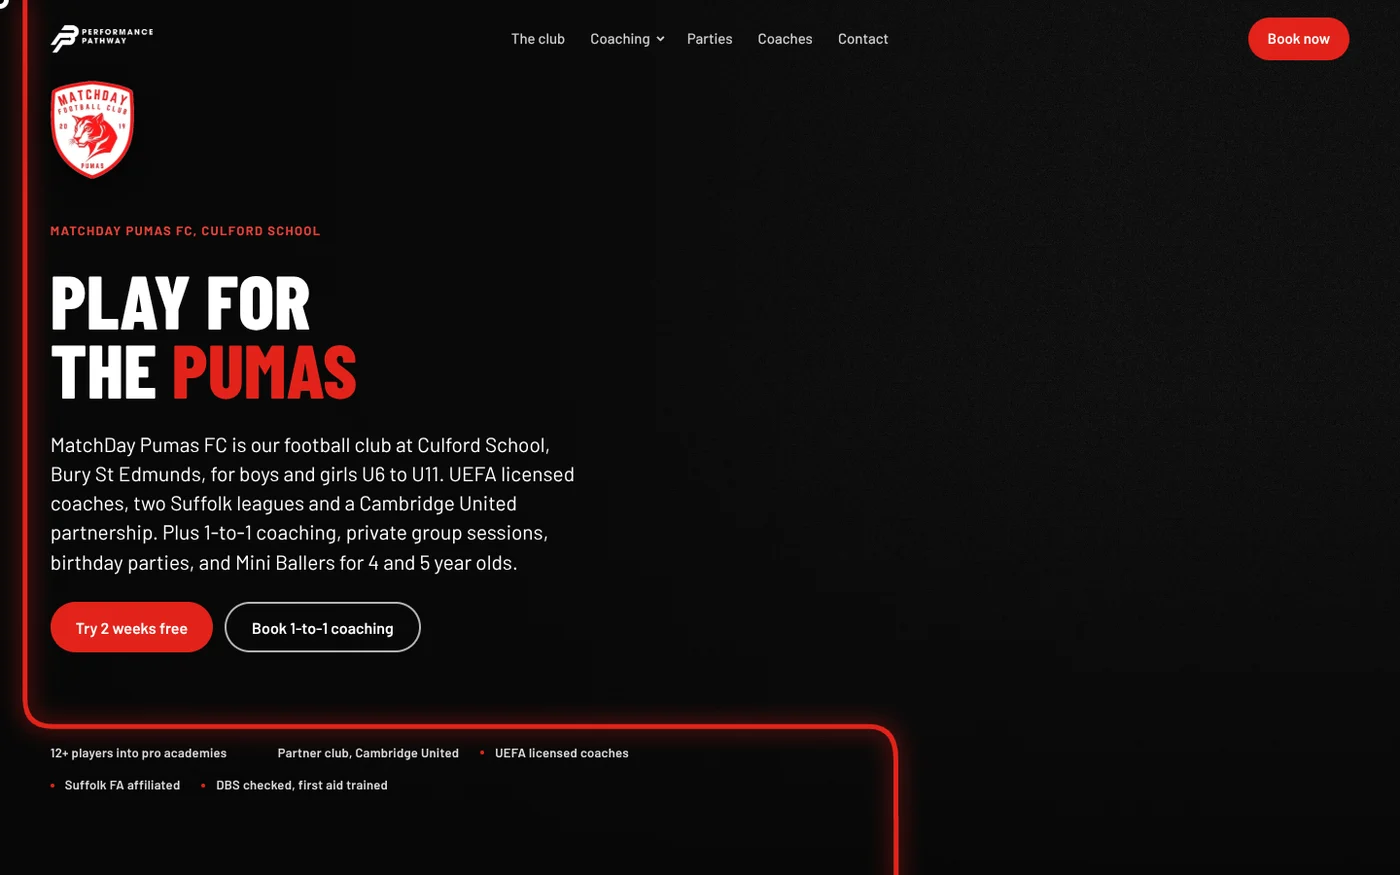
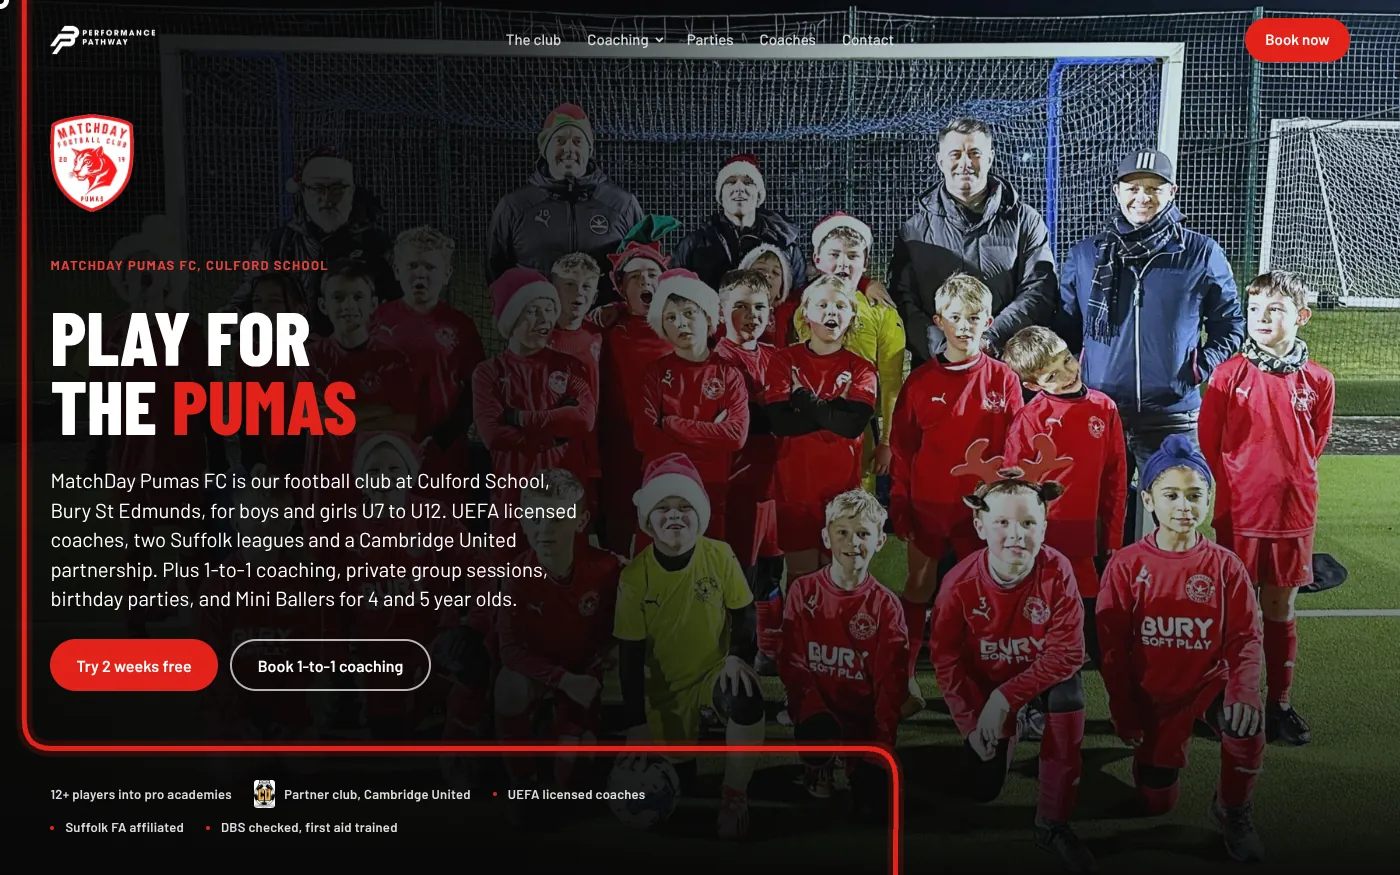
Premium pass: no bargain framing, work leads with the Pumas club photo, fan project removed, full 2009 before-site, header aligned to page margins

diff --git a/public/index.html b/public/index.html
@@ -176,6 +176,17 @@
                 </div>
                 <div class="b-img">image coming soon</div>
               </div>
+              <p class="b-h">Latest News</p>
+              <p><b>14/02/2016</b> &nbsp;Valentines cakes now available to order, please telephone.</p>
+              <p><b>02/12/2015</b> &nbsp;Christmas opening times will be posted here soon.</p>
+              <p><b>19/06/2014</b> &nbsp;We have a new oven!!! Thank you for your patience during the works.</p>
+              <p class="b-h">Opening Times</p>
+              <table class="b-table"><tr><td>Mon - Fri</td><td>7.00am - 5.00pm</td></tr><tr><td>Saturday</td><td>7.30am - 1.00pm (closed bank holidays)</td></tr><tr><td>Sunday</td><td>CLOSED</td></tr></table>
+              <p class="b-h">Our Products</p>
+              <table class="b-table"><tr><td>White Bloomer</td><td>please ring</td></tr><tr><td>Wholemeal Loaf</td><td>please ring</td></tr><tr><td>Iced Buns</td><td>please ring</td></tr><tr><td>Celebration Cakes</td><td>POA</td></tr></table>
+              <p class="b-h">Sign our Guestbook!</p>
+              <p>"Lovely bread, shame about the website" - Dave, 2018</p>
+              <p class="b-tiny">This site is under construction. Please check back soon. &nbsp; Links: Council website | Weather | Bread recipes</p>
               <div class="b-foot">Tel: 01234 567890 &nbsp;&nbsp; Fax: 01234 567891 &nbsp;&nbsp; Visitors: 004213</div>
             </div>
           </div>
@@ -228,27 +239,17 @@
 <section class="work" id="work" aria-labelledby="work-title">
   <div class="work-intro">
     <h2 id="work-title" class="split">Recent <em>work</em></h2>
-    <p>Two sites I've built and one I'm building now. The fourth one's yours.</p>
+    <p>The club I'm building for now, my own site, and the next one, which is yours.</p>
   </div>
   <div class="work-window">
   <div class="work-track">
     <article class="card" data-cursor="Peek">
       <a class="card-link" href="https://performance-pathway-concept.vercel.app" target="_blank" rel="noopener">
-        <div class="card-media"><img src="assets/own/performance-pathway.webp" width="1400" height="875" alt="Performance Pathway concept homepage: 'Play for the Pumas' in big white and red type, with a red line framing the page" decoding="async" loading="lazy" data-early></div>
+        <div class="card-media"><img src="assets/own/performance-pathway.webp" width="1400" height="875" alt="Performance Pathway homepage: 'Play for the Pumas' over a photo of the MatchDay Pumas squad and coaches on the pitch" decoding="async" loading="lazy" data-early></div>
         <div class="card-body">
           <h3>Performance Pathway</h3>
           <p class="card-meta">In progress · Youth football, Bury St Edmunds</p>
           <p>I used to run their marketing, and now I'm building their new website. Parents tap their child's age and it points them to the right session, whether that's a club team or 1-to-1 coaching.</p>
-        </div>
-      </a>
-    </article>
-    <article class="card" data-cursor>
-      <a class="card-link" href="https://doomsday-dossier.github.io/doomsday-dossier/" target="_blank" rel="noopener">
-        <div class="card-media"><img src="assets/own/doomsday-dossier.webp" width="1400" height="875" alt="Doomsday Dossier home screen: a green 3D planet split into 30 shards, with a countdown underneath" decoding="async" loading="lazy" data-early></div>
-        <div class="card-body">
-          <h3>Doomsday Dossier</h3>
-          <p class="card-meta">Fan project · Film</p>
-          <p>A fan site for Avengers: Doomsday, built as Doctor Doom's own computer. Spin a 3D planet of 30 characters and listen to a soundtrack I composed in code. Nobody asked for it, and I'd happily do it again.</p>
         </div>
       </a>
     </article>
@@ -290,7 +291,7 @@
     <a class="text-link" href="https://performance-pathway-concept.vercel.app" target="_blank" rel="noopener">See the work in progress</a>
   </div>
   <div class="case-shots">
-    <figure class="shot shot-a"><img src="assets/own/performance-pathway.webp" width="1400" height="875" alt="Performance Pathway homepage in progress: 'Play for the Pumas' in big white and red type" decoding="async" loading="lazy" data-early></figure>
+    <figure class="shot shot-a"><img src="assets/own/performance-pathway.webp" width="1400" height="875" alt="Performance Pathway homepage in progress: 'Play for the Pumas' over the team photo" decoding="async" loading="lazy" data-early></figure>
     <figure class="shot shot-b"><img src="assets/own/performance-pathway-finder.webp" width="1440" height="520" alt="The age picker: 'Which session is right for my child?' with buttons for ages 4 to 16, and a glowing red line" decoding="async" loading="lazy" data-early></figure>
   </div>
 </section>
@@ -449,27 +450,9 @@
 
 <section class="bargain" id="bargain" aria-labelledby="bargain-title">
   <div class="bargain-head">
-    <h2 id="bargain-title" class="split">Why it's a <em>bargain</em></h2>
-    <p>A custom website usually means a big bill upfront and a long wait. Here's what you'd normally pay for, and what you pay here.</p>
+    <h2 id="bargain-title" class="split">The usual way, <em>and mine</em></h2>
+    <p>Most studios ask for a big cheque before you've seen a thing. I'd rather you see your homepage first, and judge me on that.</p>
   </div>
-  <div class="stack-wrap">
-    <ul class="stack">
-      <li><span>A custom-designed website, built for phones</span><b>£1,500+</b></li>
-      <li><span>The words written for you</span><b>£300</b></li>
-      <li><span>Your Google Business Profile set up properly</span><b>£150</b></li>
-      <li><span>Domain and a professional email address for a year</span><b>£40</b></li>
-      <li><span>Hosting, security and backups for a year</span><b>£180</b></li>
-      <li><span>Changes whenever you need them</span><b>£50 an hour</b></li>
-    </ul>
-    <div class="stack-total">
-      <p class="st-old">£<span class="ticker" data-to="2170">2,170</span>+</p>
-      <p class="st-label">What a small business usually pays upfront elsewhere</p>
-      <p class="st-new">£0</p>
-      <p class="st-label">What you pay upfront with me</p>
-      <p class="st-day">Silver works out at £3.91 a day, which is about the price of a flat white in Birmingham.</p>
-    </div>
-  </div>
-  <p class="stack-note">Prices elsewhere are typical UK quotes for a small business website. Your quote may be different. My upfront price is £0 either way.</p>
   <table class="compare">
     <thead><tr><th scope="col"><span class="sr">What you're comparing</span></th><th scope="col">Many agencies</th><th scope="col" class="us">Hojari</th></tr></thead>
     <tbody>
@@ -627,7 +610,7 @@
       <details class="qa"><summary>What's included, and are there any extra costs?<i></i></summary><div class="qa-body"><p>Design, words, hosting, security, backups, your domain and email for the first year, and unlimited small changes are all included. The only extra is your domain renewal after year one, usually £10 to £20 a year.</p></div></details>
       <details class="qa"><summary>Is there a contract?<i></i></summary><div class="qa-body"><p>Nothing long. Stay three months, then cancel whenever you like with 30 days' notice. Pay yearly and you get two months free.</p></div></details>
       <details class="qa"><summary>Will the price go up?<i></i></summary><div class="qa-body"><p>Not for founding clients. If you're one of my first ten businesses, your price stays the same for as long as you're with me.</p></div></details>
-      <details class="qa"><summary>Why is it so affordable?<i></i></summary><div class="qa-body"><p>I'm starting out and building my first ten case studies, so the founding price is lower than it will be later. You get the same work, at a better price, for being early.</p></div></details>
+      <details class="qa"><summary>Why monthly, not one big bill?<i></i></summary><div class="qa-body"><p>A website isn't a one-off. It needs keeping fast, safe and up to date, and monthly means I stay on the hook for all of that. You also skip the big bill upfront, and the founding rate stays yours for as long as you stay.</p></div></details>
       <details class="qa"><summary>What if I don't like it?<i></i></summary><div class="qa-body"><p>You see your own homepage before you pay a penny. And if you're not happy in your first 30 days after launch, I'll refund you.</p></div></details>
       <details class="qa"><summary>How do I pay?<i></i></summary><div class="qa-body"><p>By card or bank transfer, monthly or yearly. You get a proper invoice for every payment.</p></div></details>
     </div>

diff --git a/public/styles.css b/public/styles.css
@@ -1587,3 +1587,11 @@ section[id] { scroll-margin-top: 0; }
 
 .faq-groups > [hidden] { display: none !important; }
 .freebies ul.is-short > li:nth-child(n+5) { display: none; }
+
+/* ===== Premium pass ===== */
+/* Header lines up with the page's own margins */
+.nav { width: calc(100% - 2 * var(--margin)); }
+/* The 2009 bakery site, in full */
+.b-table { width: 100%; border-collapse: collapse; margin: 6px 0 14px; font-size: 15px; }
+.b-table td { border: 1px solid #999; padding: 6px 8px; background: #fff; }
+.bx-desk .b-h { margin-top: 18px; }

diff --git a/public/main.js b/public/main.js
@@ -617,7 +617,6 @@
   }
 
   /* BARGAIN: strike through the old price once you see it */
-  onceInView($('.stack-total'), () => $('.stack-total').classList.add('is-on'), 0.5);
 
   /* PRICING: monthly or yearly */
   const billBtns = $$('.bill .chip');
